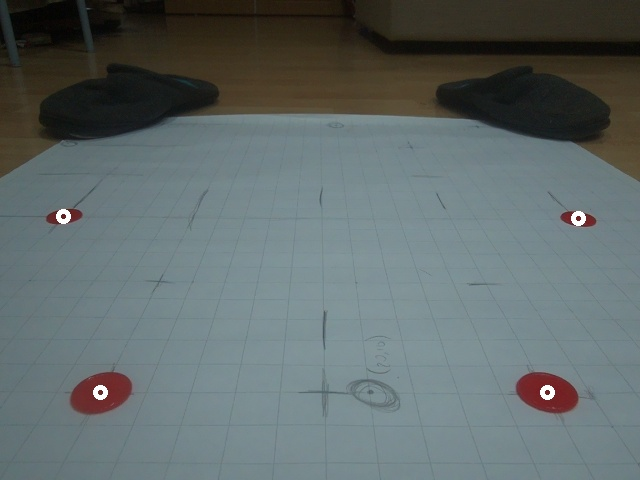
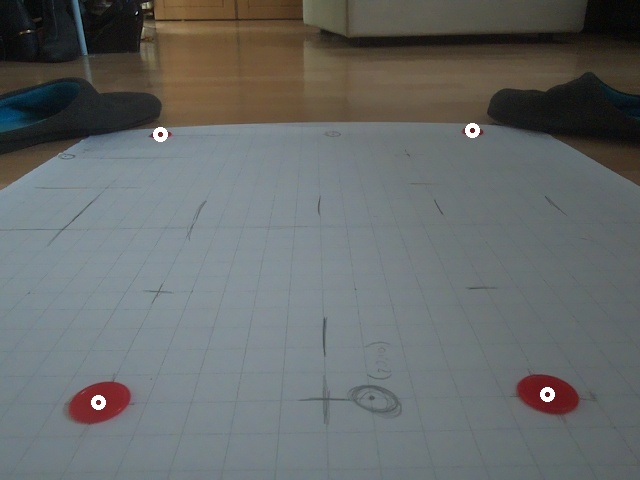
new homography, calibrated with further spread points

diff --git a/project.py b/project.py
@@ -29,9 +29,9 @@ floor_modifier_move = 1.02 # 1.02 = hard floor, ? = carpet
 floor_modifier_rotate = 1.0 # 1.1 = hard floor, ? = carpet
 
 camera_homography_far = np.array([
-	( 7.19284302e-01, -9.23660682e-03, -2.31074218e+02),
-	(-1.54370083e-02, -2.79017572e-01,  4.35326023e+02),
-	(-6.53442277e-04,  3.88591518e-02,  1.00000000e+00)], dtype = float)
+	( 2.80376281e+00, -8.24497129e-02, -8.78552444e+02),
+	(-5.66343586e-02, -1.00352252e+00,  1.67727228e+03),
+	( 8.24903567e-04,  1.55051755e-01,  1.00000000e+00)], dtype = float)
 
 # x1: float (cm)
 # y1: float (cm)
@@ -363,7 +363,7 @@ def enableCamera():
 				h = stats[i, cv2.CC_STAT_HEIGHT]
 				area = stats[i, cv2.CC_STAT_AREA]
 				(cX, cY) = centroids[i]
-				if (area > 35):
+				if (area > 75):
 					print("Component", i, "area", area, "Centroid", cX, cY)
 					img = cv2.circle(img, (int(cX), int(cY)), 5, white, 3)
 
@@ -409,10 +409,10 @@ def colourTest():
 	cv2.destroyAllWindows()
 
 def calculateHomography():
-	(x1, y1, u1, v1) = (20, 40, 578, 219)
-	(x2, y2, u2, v2) = (-20, 40, 64, 216)
-	(x3, y3, u3, v3) = (10, 20, 547, 392)
-	(x4, y4, u4, v4) = (-10, 20, 101, 393)
+	(x1, y1, u1, v1) = (20, 70, 472, 131)
+	(x2, y2, u2, v2) = (-20, 70, 161, 134)
+	(x3, y3, u3, v3) = (10, 20, 548, 394)
+	(x4, y4, u4, v4) = (-10, 20, 99, 402)
 
 	A = np.array([[x1, y1, 1, 0, 0, 0, -u1 * x1, -u1 * y1],
 	              [0, 0, 0, x1, y1, 1, -v1 * x1, -v1 * y1],
@@ -654,7 +654,7 @@ def monteCarloLocalisation(waypoints, particles, canvas):
 						h = stats[i, cv2.CC_STAT_HEIGHT]
 						area = stats[i, cv2.CC_STAT_AREA]
 						(cX, cY) = centroids[i]
-						if (area > 50):
+						if (area > 100):
 							#print("Component", i, "area", area, "Centroid", cX, cY)
 							#img = cv2.circle(img, (int(cX), int(cY)), 5, white, 3)
 							adjustedPixels = np.array([cX, cY, 1])
@@ -740,7 +740,7 @@ def initialiseMCL(waymarks, waypoints):
 
 waymark_list = np.array([(56, 23), (74.5, 82), (-37, 36)])
 #waymark_list = np.array([])
-waypoint_list = np.array([(90, 0), (80, 50), (0, 50), (0, 0)])
+waypoint_list = np.array([(80, 0), (90, 50), (0, 50), (0, 0)])
 #waypoint_list = np.array([(0, 50), (90, 50), (90, 0), (0, 0)])
 
 initialiseMCL(waymark_list, waypoint_list)
